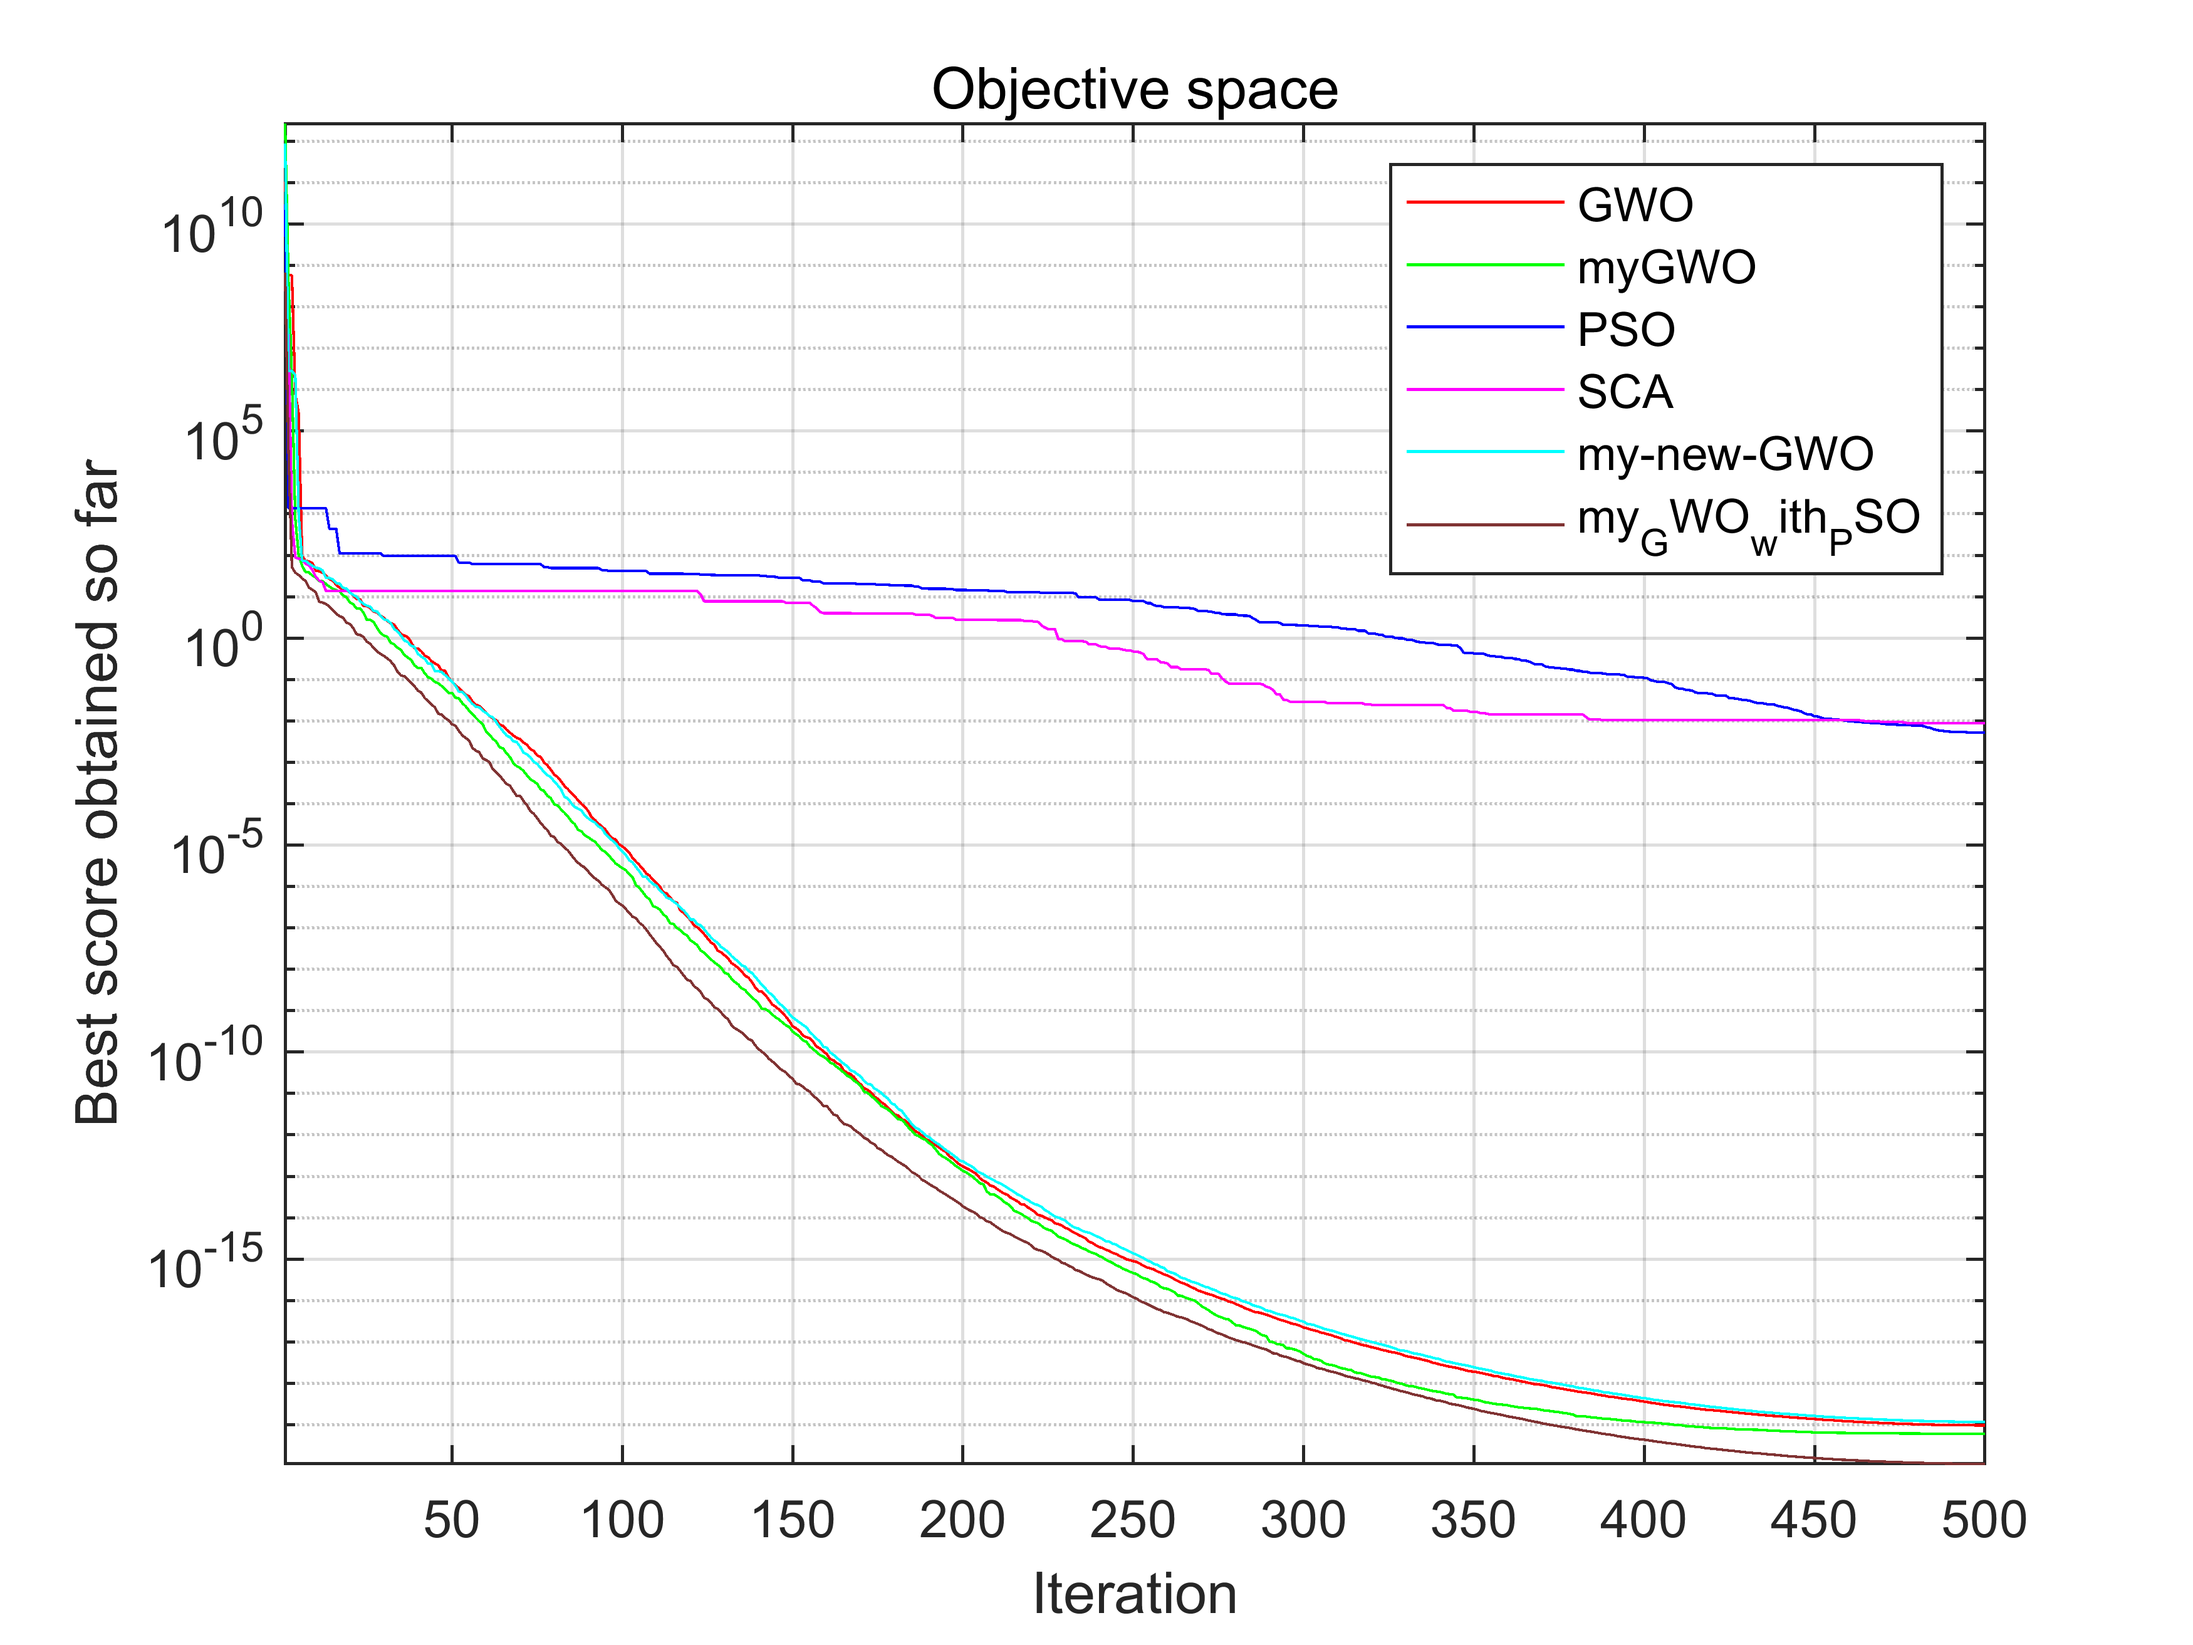
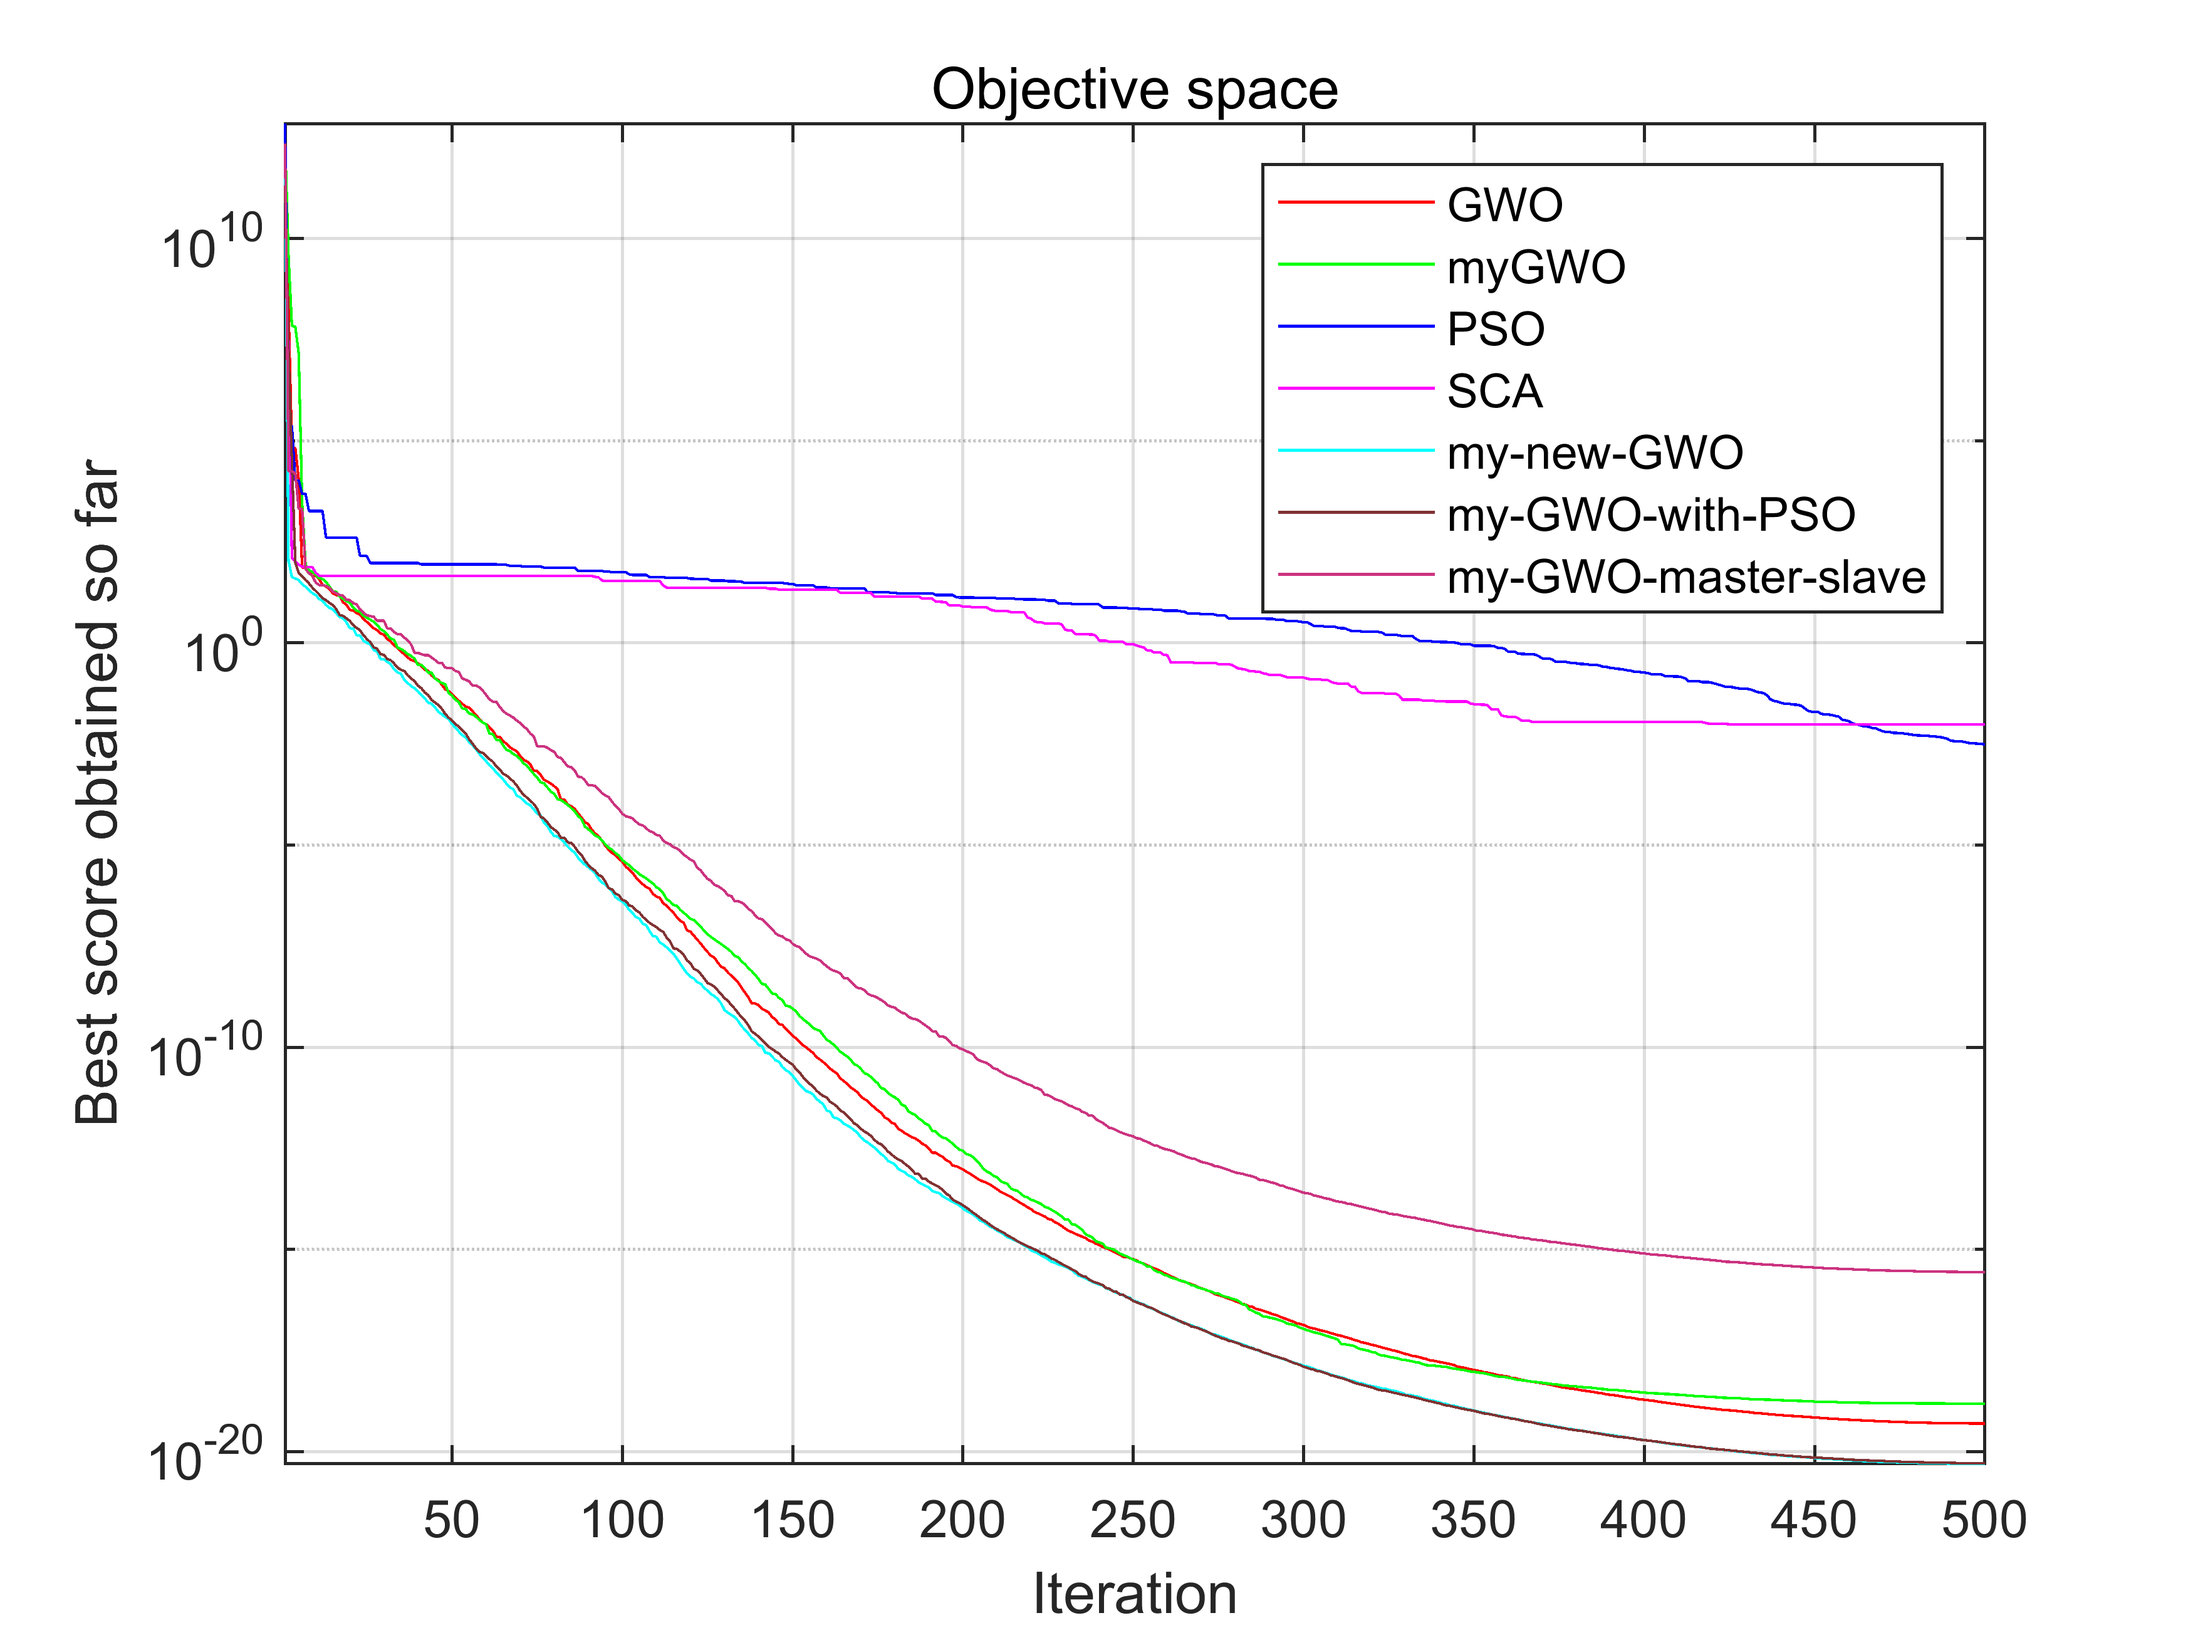
新增master-slave，效果真不错

diff --git a/GWO_original/my_new_GWO_master_slave.m b/GWO_original/my_new_GWO_master_slave.m
@@ -1,0 +1,84 @@
+function [Alpha_score,Alpha_pos,Convergence_curve]=my_new_GWO_master_slave(SearchAgents_no,Max_iter,lb,ub,dim,fobj)
+
+% initialize alpha, beta, and delta_pos
+Alpha_pos=zeros(1,dim);
+Alpha_score=inf; %change this to -inf for maximization problems
+
+Beta_pos=zeros(1,dim);
+Beta_score=inf; %change this to -inf for maximization problems
+
+Delta_pos=zeros(1,dim);
+Delta_score=inf; %change this to -inf for maximization problems
+
+%Initialize the positions of search agents
+Positions=initialization(SearchAgents_no,dim,ub,lb);
+
+Convergence_curve=zeros(1,Max_iter);
+
+l=0;% Loop counter
+best_of_every=Positions;
+best_score_of_every=Inf(1,SearchAgents_no);
+best_of_whole=Positions(1,:);
+best_score_of_whole=inf;
+
+
+Alpha_pos1=zeros(1,dim);
+Alpha_score1=inf; %change this to -inf for maximization problems
+
+Beta_pos1=zeros(1,dim);
+Beta_score1=inf; %change this to -inf for maximization problems
+
+Delta_pos1=zeros(1,dim);
+Delta_score1=inf; %change this to -inf for maximization problems
+
+
+Alpha_pos2=zeros(1,dim);
+Alpha_score2=inf; %change this to -inf for maximization problems
+
+Beta_pos2=zeros(1,dim);
+Beta_score2=inf; %change this to -inf for maximization problems
+
+Delta_pos2=zeros(1,dim);
+Delta_score2=inf; %change this to -inf for maximization problems
+% Main loop
+best_best=inf;
+num_1=0;
+num_2=0;
+while l<Max_iter
+    [Alpha_score1,Positions] = Sub_GWO(1,round(SearchAgents_no/2),Positions,fobj,ub,lb,dim,Max_iter,l);
+    [Alpha_score2,Positions] = Sub_GWO(round(SearchAgents_no/2) + 1,SearchAgents_no,Positions,fobj,ub,lb,dim,Max_iter,l);
+    
+    l=l+1;
+    if (Alpha_score1 > Alpha_score2)
+        num_1 = num_1 + 1;
+        num_2 = 0;
+        Alpha_score1 = Alpha_score2;
+    else
+        num_2 = num_2 + 1;
+        num_1 = 0;
+    end
+    if (best_best > Alpha_score1)
+        best_best = Alpha_score1;
+    end
+
+    disp(num_1);
+    % update wolf if it sleep for a long time
+    if(num_1 > 2)
+        disp('sleep1');
+        for i = 1:round(SearchAgents_no/2)
+            rand_num = randi([1,round(SearchAgents_no/2)]);
+            Positions(i,:) = update_wolf(l,Max_iter,Positions,dim,fobj,lb,ub,fobj(Positions(rand_num,:)),Positions(rand_num,:));
+        end
+    end
+    if(num_2 > 2)
+        disp('sleep2');
+        for i = round(SearchAgents_no/2)+1:SearchAgents_no
+            rand_num = randi([round(SearchAgents_no/2)+1,SearchAgents_no]);
+            Positions(i,:) = update_wolf(l,Max_iter,Positions,dim,fobj,lb,ub,fobj(Positions(rand_num,:)),Positions(rand_num,:));
+        end
+    end
+
+
+    
+    Convergence_curve(l)=best_best;
+end

diff --git a/GWO_original/my_new_GWO.m b/GWO_original/my_new_GWO.m
@@ -16,6 +16,10 @@ Positions=initialization(SearchAgents_no,dim,ub,lb);
 Convergence_curve=zeros(1,Max_iter);
 
 l=0;% Loop counter
+best_of_every=Positions;
+best_score_of_every=Inf(1,SearchAgents_no);
+best_of_whole=Positions(1,:);
+best_score_of_whole=inf;
 
 % Main loop
 while l<Max_iter
@@ -28,7 +32,15 @@ while l<Max_iter
         
         % Calculate objective function for each search agent
         fitness=fobj(Positions(i,:));
-        
+        if fitness < best_score_of_every
+            best_score_of_every = fitness;
+            best_of_every(i,:) = Positions(i,:);
+        end
+        if fitness < best_score_of_whole
+            best_score_of_whole = fitness;
+            best_of_whole = Positions(i,:);
+        end
+
         % Update Alpha, Beta, and Delta
         if fitness<Alpha_score 
             Alpha_score=fitness; % Update alpha
@@ -93,11 +105,12 @@ while l<Max_iter
         diff = old_position(i) - old_position(j);
         trust_score = abs(fobj(old_position(i,:)) - fobj(old_position(j,:))) / (norm(diff,2)+0.01);
         if (fobj(old_position(i,:)) - fobj(old_position(j,:)) > 0)
-            Positions(i) = Positions(i) - 0.1 * (1 - exp(-trust_score)) * diff;
+            Positions(i,:) = Positions(i,:) - 0.1 * (1 - exp(-trust_score)) * diff;
         else
-            Positions(i) = Positions(i) + 0.1 * (1 - exp(-trust_score)) * diff;
+            Positions(i,:) = Positions(i,:) + 0.1 * (1 - exp(-trust_score)) * diff;
         end
         %end
+        Positions(i,:) = Positions(i,:) + 0.5 * rand() * (best_of_whole - Positions(i,:)) + 0.5 * rand() * (best_of_every(i,:) - Positions(i,:));
         for j = 1:dim % prevent error solution
             if Positions(i,j) > ub
                 Positions(i,j) = ub;

diff --git a/GWO_original/main.m b/GWO_original/main.m
@@ -53,6 +53,7 @@ for kw = 1:22
     [my_Best_score3,my_Best_pos3,my_GWO_cg_curve3]=my_new_GWO(SearchAgents_no,Max_iteration,lb,ub,dim,fobj);
     [my_Best_score4,my_Best_pos4,my_GWO_cg_curve4]=my_new_GWO_temp(dim,SearchAgents_no,Max_iteration,lb,ub,fobj);
     [my_Best_score5,my_Best_pos5,my_GWO_cg_curve5]=my_new_GWO_with_PSO(SearchAgents_no,Max_iteration,lb,ub,dim,fobj);
+    [my_Best_score6,my_Best_pos6,my_GWO_cg_curve6]=my_new_GWO_master_slave(SearchAgents_no,Max_iteration,lb,ub,dim,fobj);
     %figure('Position',[500 500 660 290])
     fig = figure(Visible="on");
     % Draw search space
@@ -74,6 +75,7 @@ for kw = 1:22
     semilogy(my_GWO_cg_curve3, 'Color', 'cyan');
     %semilogy(my_GWO_cg_curve4, 'Color', 'yellow');
     semilogy(my_GWO_cg_curve5, 'Color', [0.5 0.2 0.2]);
+    semilogy(my_GWO_cg_curve6, 'Color', [0.8 0.2 0.5]);
     title('Objective space')
     xlabel('Iteration');
     ylabel('Best score obtained so far');
@@ -82,7 +84,7 @@ for kw = 1:22
     grid on
     box on
     %legend('GWO', 'myGWO', 'PSO', 'SCA', 'best-GWO', 'my-new-GWO', 'best-GWO-temp', 'my_GWO_with_PSO');
-    legend('GWO', 'myGWO', 'PSO', 'SCA', 'my-new-GWO', 'my_GWO_with_PSO');
+    legend('GWO', 'myGWO', 'PSO', 'SCA', 'my-new-GWO', 'my-GWO-with-PSO', 'my-GWO-master-slave');
     asdas = num2str(kw);
     disp(asdas)
     file_name = strcat('C:\Users\28898\OneDrive\Documents\MATLAB\GWO_original\all_fun\', num2str(kw), '.png');
